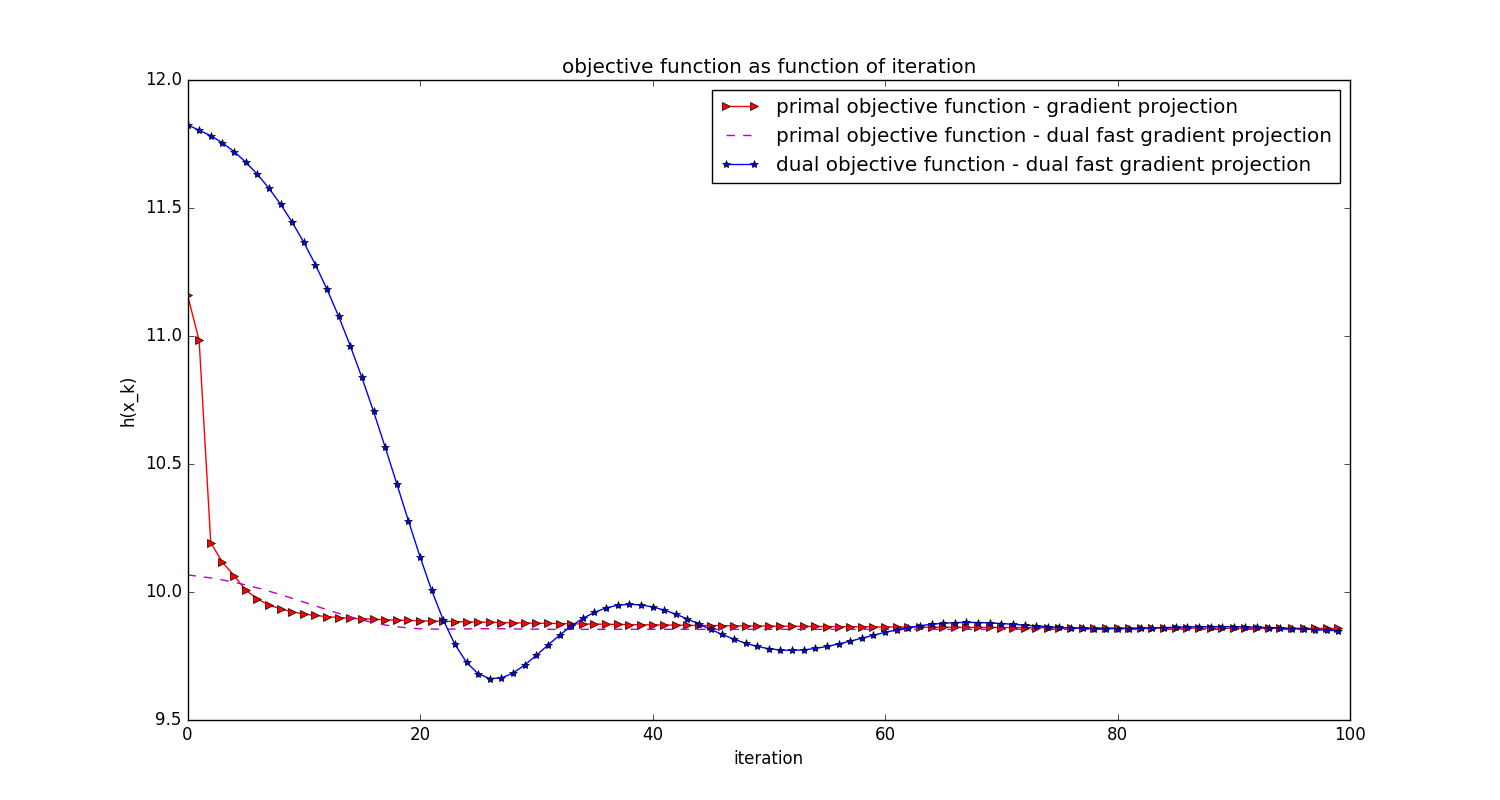
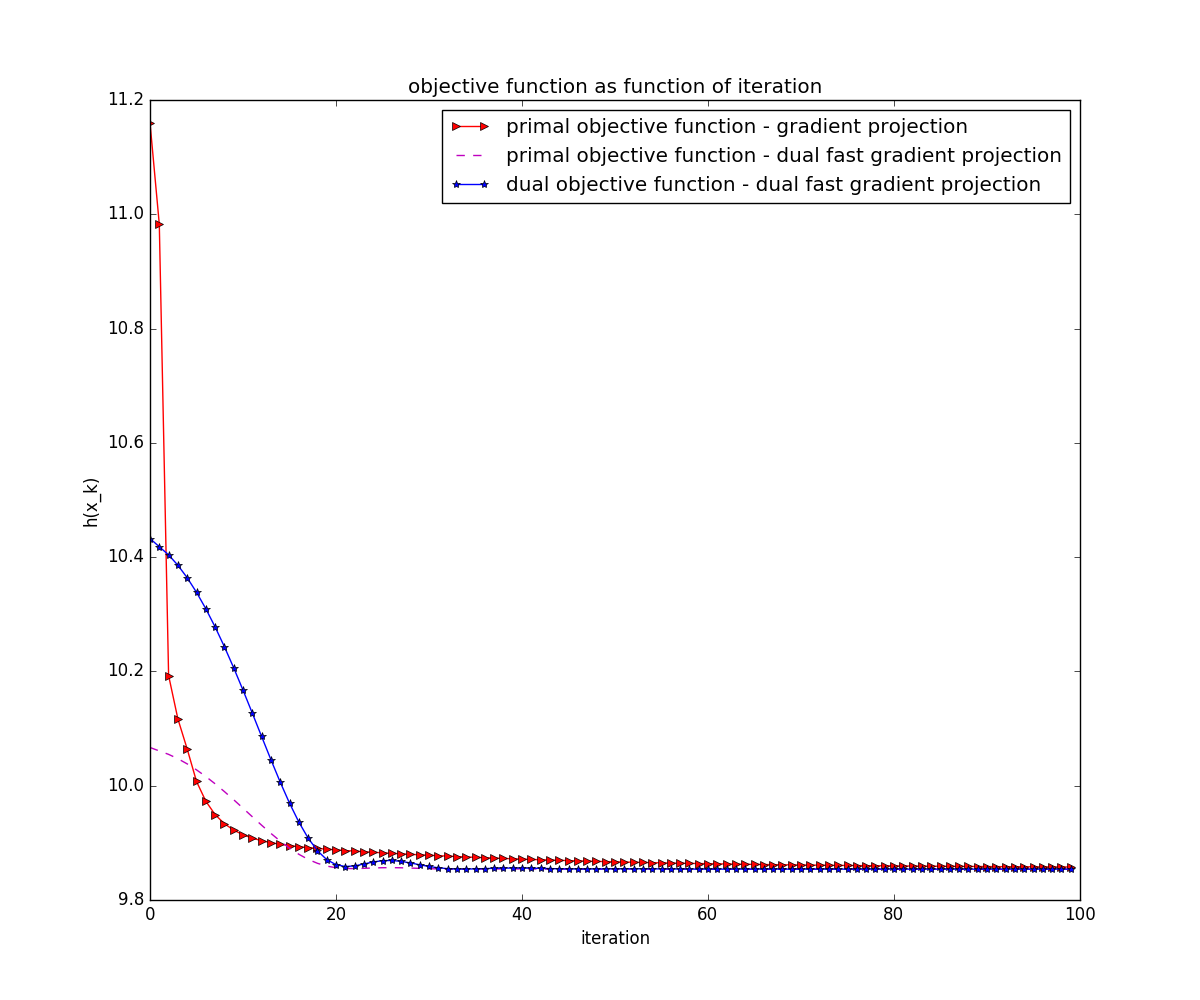
Order the plots of q1. Q1 Done.

diff --git a/hw3/q1/compare_methods.py b/hw3/q1/compare_methods.py
@@ -37,6 +37,7 @@ def Q1_comparison():
 
     scores_primal = collections.defaultdict(list)
     scores = collections.defaultdict(list)
+    solutions100 = {}
 
     for i in xrange(1000):
         for (method, eta) in [(gradient_projection_5_vars, 1. / math.sqrt(i + 2)),
@@ -48,15 +49,17 @@ def Q1_comparison():
             scores_primal[method].append(method.full_solution().score_primal())
             scores[method].append(method.full_solution().score())
             method.step(eta)
+            if i == 100:
+                solutions100[method] = method.full_solution()
 
     print "Final Solutions:\n=============="
     print "Dual fast gradient projection solution:"
-    print dual_fgp.full_solution().as_q1_state()
+    print solutions100[dual_fgp].as_q1_state()
     print "Primal gradient projection solution:"
-    print gradient_projection_5_vars.full_solution()
+    print solutions100[gradient_projection_5_vars]
 
     # Plot required by exercise
-    plt.figure(figsize=(15, 8))
+    plt.figure(figsize=(12, 10))
     plt.title("objective function as function of iteration")
     plt.xlabel("iteration")
     plt.ylabel("h(x_k)")
@@ -67,7 +70,7 @@ def Q1_comparison():
     plt.savefig("q1c_first_100_iterations.png")
 
     # Plot of all methods.
-    plt.figure(figsize=(15, 8))
+    plt.figure(figsize=(12, 10))
     plt.plot(scores_primal[gradient_projection_5_vars][:100], 'r->', label='gradient projection')
     plt.plot(scores_primal[gradient_projection_dual][:100], 'c->', label='gradient projection dual')
     plt.plot(scores_primal[naive_3_vars][:100], 'b-<', label='naive gradient descent')
@@ -80,7 +83,7 @@ def Q1_comparison():
     h_best = best_value()
 
     # Plot required by exercise.
-    plt.figure(figsize=(15, 8))
+    plt.figure(figsize=(12, 10))
     plt.title("Score minus best_score")
     plt.xlabel("iteration")
     plt.ylabel("h(x_k) - h*")
@@ -90,7 +93,7 @@ def Q1_comparison():
     plt.savefig("q1d_first_1000_iterations_diff_from_best.png")
 
     # Plot of all methods.
-    plt.figure(figsize=(15, 8))
+    plt.figure(figsize=(12, 10))
     plt.semilogy(np.array(scores_primal[gradient_projection_dual]) - h_best, 'c->', label='dual gradient projection')
     plt.semilogy(np.array(scores_primal[dual_fgp]) - h_best, 'm--', label='dual fast gradient projection')
     plt.semilogy(np.array(scores_primal[gradient_projection_5_vars]) - h_best, 'r->', label='gradient projection')

diff --git a/hw3/q1/utils/q1_dual_search_state.py b/hw3/q1/utils/q1_dual_search_state.py
@@ -28,7 +28,7 @@ class Q1DualState(object):
                 self.l2 * (primal.x2 ** 2 + primal.x3 ** 2 - primal.y2))
 
     def score(self):
-        return self.score_primal() + self.score_penalty()
+        return self.as_q1_state().full_score() + self.score_penalty()
 
     def gradient_penalty(self):
         primal = self.as_q1_state()
